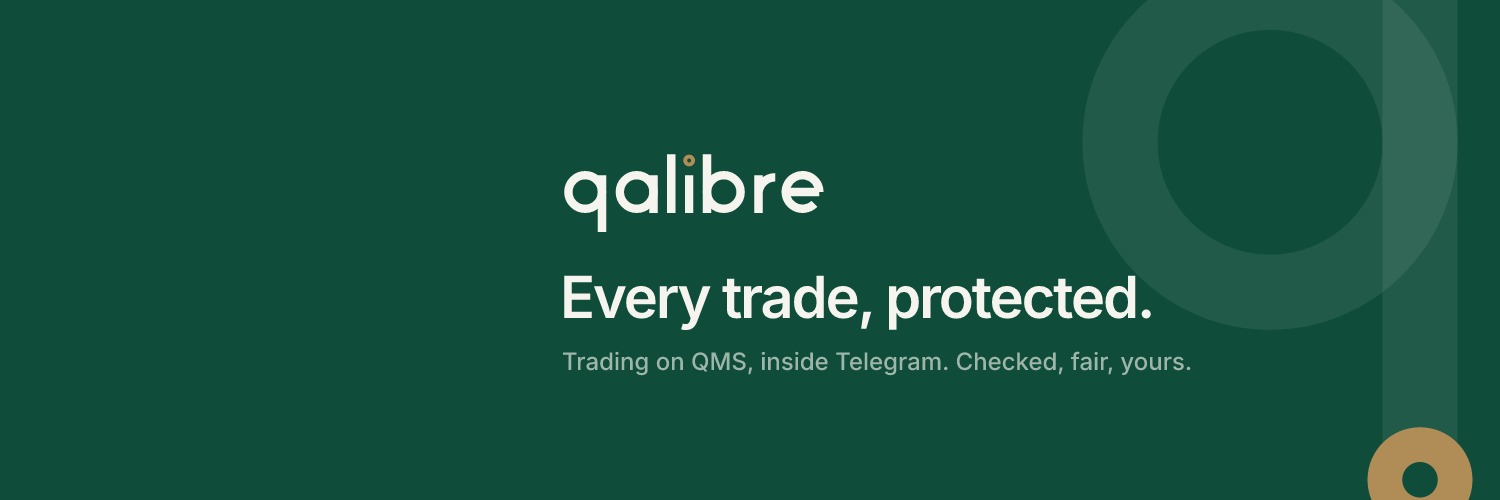
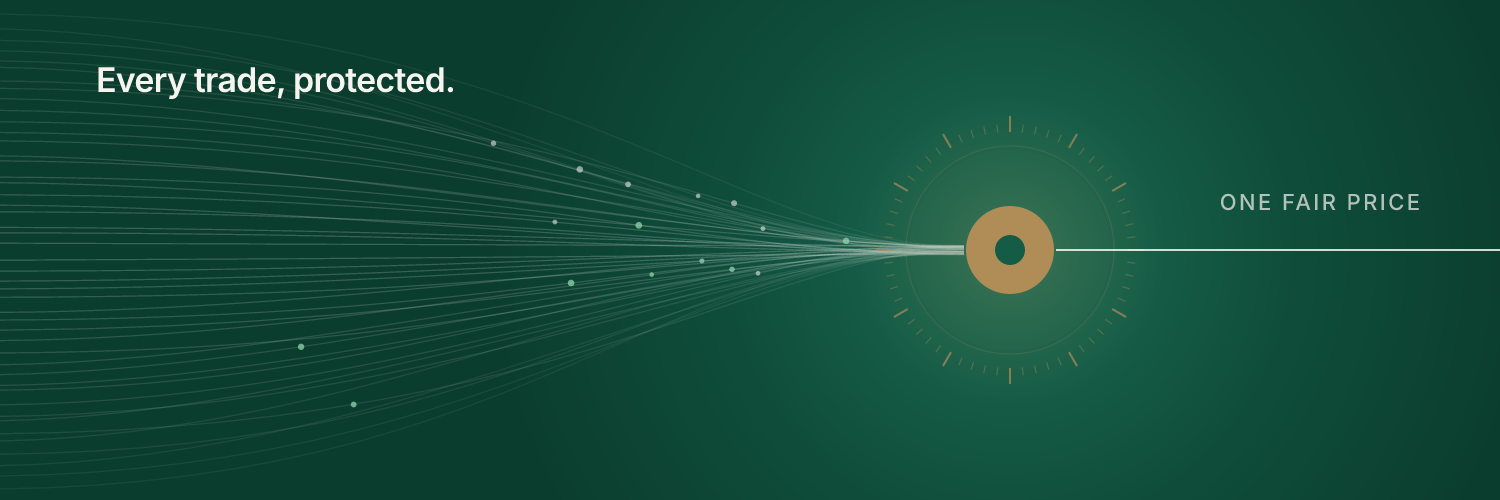
X header: order flow converging to one fair price

diff --git a/backend/scripts/social-kit.ts b/backend/scripts/social-kit.ts
@@ -35,13 +35,59 @@ const avatar = `<svg xmlns="http://www.w3.org/2000/svg" width="400" height="400"
 </svg>`;
 writeFileSync(join(out, 'x-avatar-400.png'), png(avatar, 400));
 
-// Header: green field, the big q held back on the right (as on the share cards), the line in the middle.
+// Header: the mechanism, not a slogan. Orders stream in from the left and meet at the brass ring, set in a
+// watch-dial bezel (Qalibre: calibre); one settled line leaves to the right. The name is already beside it on the
+// profile, so the header carries no wordmark. Lower-left stays quiet: X puts the profile photo there.
+let seed = 7;
+const rnd = () => ((seed = (seed * 16807) % 2147483647) / 2147483647);
+const RX = 1010, RY = 250; // the ring
+const lines: string[] = [];
+const dots: string[] = [];
+for (let i = 0; i < 46; i++) {
+  const y0 = 18 + i * 10.4 + (rnd() - 0.5) * 8;
+  const x0 = -20;
+  const c1x = 300 + rnd() * 260, c2x = RX - 230 - rnd() * 120;
+  const endY = RY + (rnd() - 0.5) * 10;
+  const near = Math.abs(y0 - RY) / 250; // outer lines quieter
+  const op = (0.05 + (1 - near) * 0.16).toFixed(3);
+  const d = `M${x0} ${y0.toFixed(1)} C${c1x.toFixed(0)} ${y0.toFixed(1)} ${c2x.toFixed(0)} ${endY.toFixed(1)} ${RX - 46} ${endY.toFixed(1)}`;
+  lines.push(`<path d="${d}" fill="none" stroke="${C.paper}" stroke-opacity="${op}" stroke-width="1.2"/>`);
+  // A few orders in flight: small dots partway along their curve (cubic Bezier at t).
+  if (rnd() < 0.42) {
+    const t = 0.25 + rnd() * 0.6, u = 1 - t;
+    const px = u ** 3 * x0 + 3 * u * u * t * c1x + 3 * u * t * t * c2x + t ** 3 * (RX - 46);
+    const py = u ** 3 * y0 + 3 * u * u * t * y0 + 3 * u * t * t * endY + t ** 3 * endY;
+    const buy = rnd() < 0.5;
+    dots.push(`<circle cx="${px.toFixed(1)}" cy="${py.toFixed(1)}" r="${(2.2 + rnd() * 1.6).toFixed(1)}" fill="${buy ? '#8FD4AE' : C.paper}" fill-opacity="${buy ? 0.75 : 0.55}"/>`);
+  }
+}
+// Bezel: 60 ticks, every fifth longer, in brass.
+const ticks: string[] = [];
+for (let k = 0; k < 60; k++) {
+  const a = (k / 60) * Math.PI * 2;
+  const r1 = 118, r2 = k % 5 === 0 ? 134 : 126;
+  ticks.push(`<line x1="${(RX + r1 * Math.cos(a)).toFixed(1)}" y1="${(RY + r1 * Math.sin(a)).toFixed(1)}" x2="${(RX + r2 * Math.cos(a)).toFixed(1)}" y2="${(RY + r2 * Math.sin(a)).toFixed(1)}" stroke="${C.brass}" stroke-opacity="${k % 5 === 0 ? 0.7 : 0.35}" stroke-width="${k % 5 === 0 ? 2 : 1.2}"/>`);
+}
 const header = `<svg xmlns="http://www.w3.org/2000/svg" width="1500" height="500" viewBox="0 0 1500 500">
-  <rect width="1500" height="500" fill="${C.green}"/>
-  ${q(1345, 236, 600, C.green, 0.08)}
-  ${wordmark(560, 150, 1.05, C.green)}
-  <text x="560" y="318" font-family="Inter" font-weight="600" font-size="58" letter-spacing="-2.2" fill="${C.paper}">Every trade, protected.</text>
-  <text x="562" y="370" font-family="Inter" font-weight="500" font-size="24" fill="${C.paper}" fill-opacity="0.62">Trading on QMS, inside Telegram. Checked, fair, yours.</text>
+  <defs>
+    <radialGradient id="glow" cx="${RX}" cy="${RY}" r="520" gradientUnits="userSpaceOnUse">
+      <stop offset="0" stop-color="#1B6B52"/><stop offset="0.55" stop-color="${C.green}"/><stop offset="1" stop-color="#0B3D2E"/>
+    </radialGradient>
+    <radialGradient id="halo" cx="${RX}" cy="${RY}" r="150" gradientUnits="userSpaceOnUse">
+      <stop offset="0" stop-color="${C.brass}" stop-opacity="0.22"/><stop offset="1" stop-color="${C.brass}" stop-opacity="0"/>
+    </radialGradient>
+  </defs>
+  <rect width="1500" height="500" fill="url(#glow)"/>
+  ${lines.join('\n  ')}
+  ${dots.join('\n  ')}
+  <circle cx="${RX}" cy="${RY}" r="150" fill="url(#halo)"/>
+  <circle cx="${RX}" cy="${RY}" r="104" fill="none" stroke="${C.brass}" stroke-opacity="0.18" stroke-width="1"/>
+  ${ticks.join('\n  ')}
+  <path d="M${RX + 46} ${RY} H1520" stroke="${C.paper}" stroke-opacity="0.85" stroke-width="2"/>
+  <circle cx="${RX}" cy="${RY}" r="44" fill="${C.brass}"/>
+  <circle cx="${RX}" cy="${RY}" r="15" fill="#155C46"/>
+  <text x="1420" y="210" text-anchor="end" font-family="Inter" font-weight="500" font-size="22" letter-spacing="2.4" fill="${C.paper}" fill-opacity="0.7">ONE FAIR PRICE</text>
+  <text x="96" y="92" font-family="Inter" font-weight="600" font-size="34" letter-spacing="-0.8" fill="${C.paper}">Every trade, protected.</text>
 </svg>`;
 writeFileSync(join(out, 'x-header-1500x500.png'), png(header, 1500));
 console.log('written to', out);
